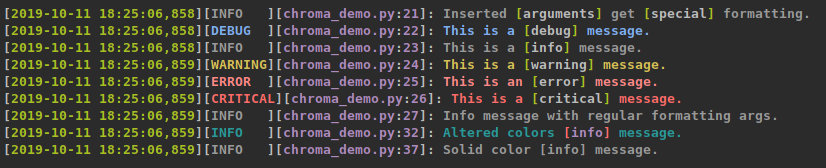
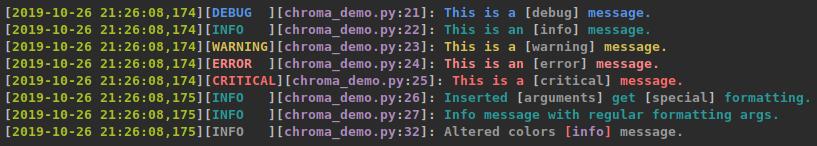
Added log dir to source control. Updated README Updated demo pictures.

diff --git a/chroma_demo.py b/chroma_demo.py
@@ -18,7 +18,7 @@ if __name__ == '__main__':
     log.setLevel(logging.DEBUG)
 
     log.debug('This is a {} message.', 'debug')
-    log.info('This is a {} message.', 'info')
+    log.info('This is an {} message.', 'info')
     log.warning('This is a {} message.', 'warning')
     log.error('This is an {} message.', 'error')
     log.critical('This is a {} message.', 'critical')

diff --git a/README.md b/README.md
@@ -16,20 +16,15 @@ import sys
 import chromalogging as logging
 
 log = logging.getLogger()
-log_format = '[$GREEN%(asctime)s$R][%(levelname)-7s$R][$MAGENTA' \
-             '%(filename)s$R:$MAGENTA%(lineno)-d$R]: %(message)s'
+log_format = ('[$GREEN%(asctime)s$R][%(levelname)-7s$R][$MAGENTA'
+              '%(filename)s$R:$MAGENTA%(lineno)-d$R]: %(message)s')
 formatter = logging.ChromaFormatter(log_format, use_color=True, all_bold=True)
 handler = logging.StreamHandler(stream=sys.stdout)
 handler.setFormatter(formatter)
 log.addHandler(handler)
 ```
 
-The colors supported are:
-BLACK RED LI_RED
-GREEN YELLOW
-LI_BLUE BLUE
-MAGENTA CYAN
-WHITE
+Any colorama colors work.
 
 Additionally $BOLD or $B applies bold text and $RESET or $R resets back
 to no colors or bold text.
@@ -37,18 +32,18 @@ to no colors or bold text.
 #### Configuration
 
 By default the logging level colors are:
-- DEBUG: Colors.LI_BLUE
-- INFO: Colors.WHITE
-- WARNING: Colors.YELLOW
-- ERROR: Colors.LI_RED
-- CRITICAL: Colors.RED
+- DEBUG: Fore.BLUE
+- INFO: Fore.Cyan
+- WARNING: Fore.YELLOW
+- ERROR: Fore.LIGHTRED_EX
+- CRITICAL: Fore.RED
 
 Formatted arguments will be surrounded by brackets, the args and the
 brackets have configurable colors.
 
 Colors can be changed as such:
 ```python
-logging.color_map[logging.INFO] = logging.Colors.CYAN
-logging.color_map[logging.BRACKET] = logging.Colors.RED
-logging.color_map[logging.ARGS] = logging.Colors.MAGENTA
+logging.color_map[logging.INFO] = logging.Fore.WHITE
+logging.color_map[logging.BRACKET] = logging.Fore.RED
+logging.color_map[logging.ARGS] = logging.Fore.MAGENTA
 ```
